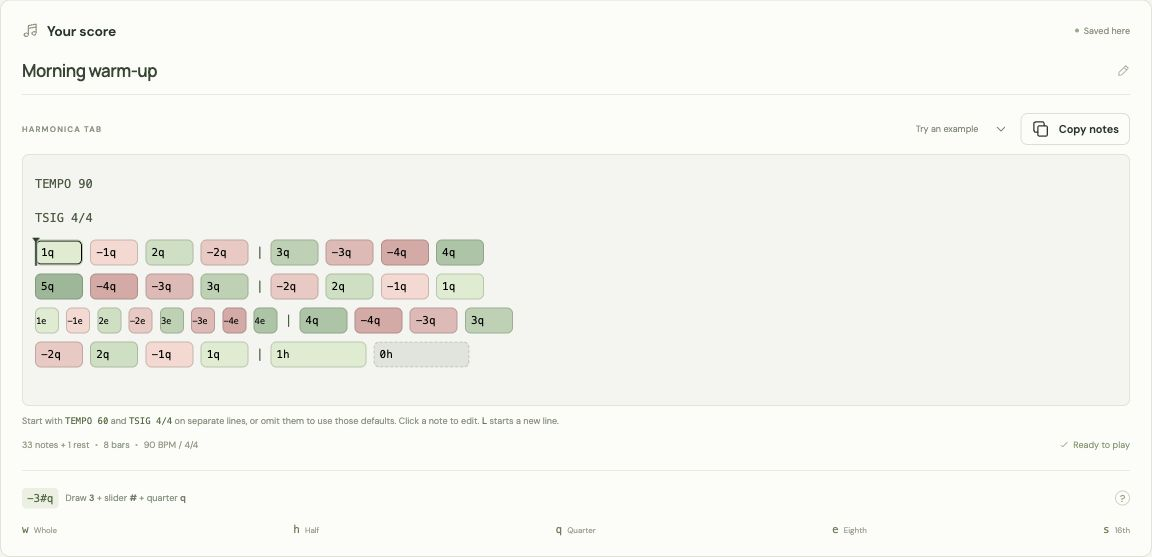
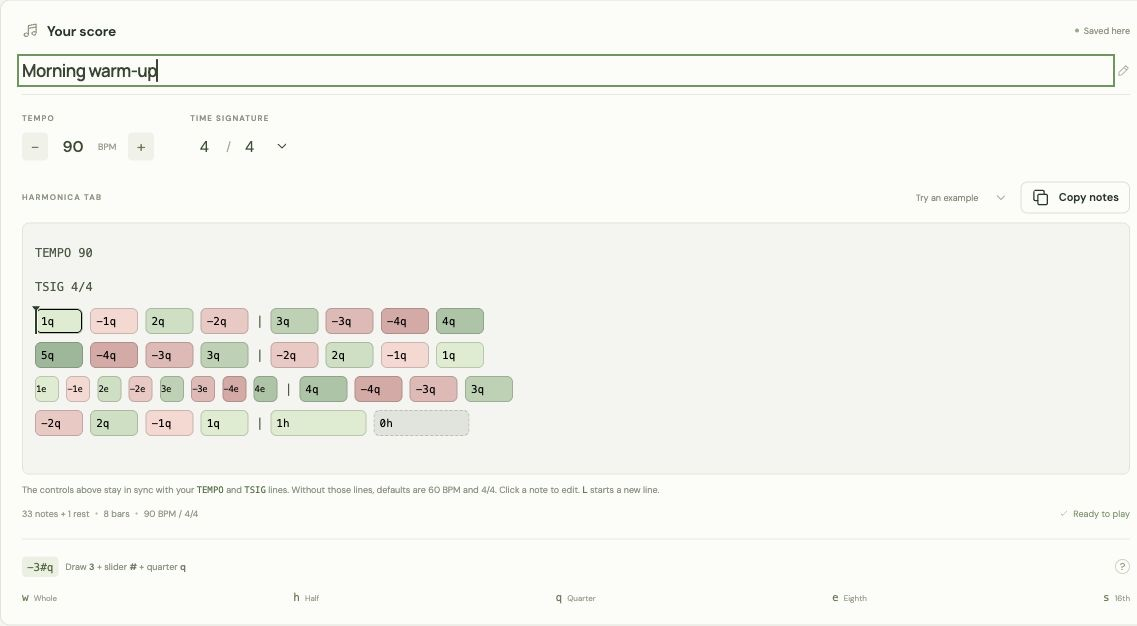
Add synced tempo and time signature controls to the score (#3)
Add score-panel timing controls with two-way TEMPO/TSIG sync, preserve notation formatting and undo history, and refresh the documentation screenshot.

Verified with 114 passing tests, the static build, and desktop/mobile browser checks.

diff --git a/notation.test.js b/notation.test.js
@@ -1,6 +1,6 @@
 import test from 'node:test';
 import assert from 'node:assert/strict';
-import { parseNotation, pitchFor, formatDuration } from './notation.js';
+import { parseNotation, pitchFor, formatDuration, updateScoreTiming } from './notation.js';
 
 const emptyScore = { notes: [], errors: [], totalBeats: 0, tempo: 60, numerator: 4, denominator: 4, directives: [] };
 
@@ -216,4 +216,67 @@ test('pitch inputs and duration formatting handle boundary values', () => {
   assert.equal(formatDuration(3601), '60:01');
   assert.equal(formatDuration(-10), '0:00');
   assert.equal(formatDuration(Infinity), '0:00');
+});
+
+test('timing controls preserve TEMP spelling, formatting, CRLF and every body character', () => {
+  const body = '\r\n 1qL - 3 # h.\t| 0e \r\n-2';
+  const source = ` \ttEmP\t 090  \r\n tSiG  6 / 8\t\r\n${body}`;
+  const updated = updateScoreTiming(source, { tempo: 120, numerator: 3 });
+  assert.equal(updated, ` \ttEmP\t 120  \r\n tSiG  3 / 8\t\r\n${body}`);
+  assert.equal(updateScoreTiming(updated, { tempo: 120, numerator: 3 }), updated);
+  assert.equal(updateScoreTiming(source, { tempo: 90, numerator: 6, denominator: 8 }), source);
+});
+
+test('missing timing controls insert only requested headers in tempo then signature order', () => {
+  const body = '\n 1q L-3#q\n\n0h ';
+  assert.equal(updateScoreTiming(body, { tempo: 60 }), `TEMPO 60\n${body}`);
+  assert.equal(updateScoreTiming(body, { numerator: 6 }), `TSIG 6/4\n${body}`);
+  assert.equal(updateScoreTiming(body, { denominator: 8 }), `TSIG 4/8\n${body}`);
+  assert.equal(updateScoreTiming(body, { tempo: 90, numerator: 6, denominator: 8 }), `TEMPO 90\nTSIG 6/8\n${body}`);
+  assert.equal(updateScoreTiming(`TSIG 6/8\n${body}`, { tempo: 90 }), `TEMPO 90\nTSIG 6/8\n${body}`);
+  assert.equal(updateScoreTiming(`TEMP 70\r\n${body}`, { denominator: 8 }), `TEMP 70\r\nTSIG 4/8\r\n${body}`);
+  assert.equal(updateScoreTiming('TEMP 70', { numerator: 3 }), 'TEMP 70\nTSIG 3/4\n');
+  assert.equal(updateScoreTiming('', { tempo: 90, numerator: 6, denominator: 8 }), 'TEMPO 90\nTSIG 6/8\n');
+});
+
+test('controls repair simple malformed headers without normalizing other invalid settings', () => {
+  const source = '  TEMP\twrong  \nTSIG 6/3\n1q -3#';
+  const changed = updateScoreTiming(source, { tempo: 80 });
+  assert.equal(changed, '  TEMP\t80  \nTSIG 6/3\n1q -3#');
+  assert.equal(updateScoreTiming(changed, { numerator: 5 }), '  TEMP\t80  \nTSIG 5/3\n1q -3#');
+  assert.equal(updateScoreTiming(changed, { denominator: 8 }), '  TEMP\t80  \nTSIG 6/8\n1q -3#');
+  assert.equal(updateScoreTiming('TEMPO60\nTSIG wrong\n1q', { numerator: 3 }), 'TEMPO60\nTSIG 3/4\n1q');
+  assert.equal(updateScoreTiming('TEMPO60\n1q', { tempo: 90 }), 'TEMPO 90\n1q');
+});
+
+test('duplicate and misplaced headers remain visible instead of being silently removed', () => {
+  const duplicate = 'TEMPO 60\nTEMP 80\nTSIG 3/4\n1q';
+  const updated = updateScoreTiming(duplicate, { tempo: 90 });
+  assert.equal(updated, 'TEMPO 90\nTEMP 80\nTSIG 3/4\n1q');
+  assert.ok(parseNotation(updated).errors.some(error => error.message.includes('only one')));
+  const misplaced = '1q\nTEMPO 80\n-3#h';
+  const fixedTop = updateScoreTiming(misplaced, { tempo: 90 });
+  assert.equal(fixedTop, `TEMPO 90\n${misplaced}`);
+  assert.ok(parseNotation(fixedTop).errors.some(error => error.message.includes('before the notes')));
+  assert.equal(updateScoreTiming('1q TEMPO 60\n2q', { tempo: 90 }), 'TEMPO 90\n1q TEMPO 60\n2q');
+});
+
+test('ambiguous header repairs never discard music or another header on the same line', () => {
+  for (const source of ['TEMPO 90 1q\n2h', 'TEMP 1 q L\n2h', 'TEMPO 60 TSIG 4/4\n1q',
+    'TEMPO 90 -3#\n2q', 'TEMPO 90 -\n2q', 'TEMP 90 1\n2q', 'TEMPO 90 | 1\n2q']) {
+    assert.throws(() => updateScoreTiming(source, { tempo: 90 }), /Edit the TEMPO line directly/);
+  }
+  assert.throws(() => updateScoreTiming('TSIG 4/4 -3#q\n1q', { denominator: 8 }), /Edit the TSIG line directly/);
+  assert.throws(() => updateScoreTiming('TSIG 4/4 | 1\n2q', { numerator: 3 }), /Edit the TSIG line directly/);
+});
+
+test('timing patches reject invalid values and leave empty patches unchanged', () => {
+  const source = 'TEMPO 60\n1q';
+  assert.equal(updateScoreTiming(source, {}), source);
+  for (const patch of [null, [], '90', { bpm: 90 }, { tempo: '90' }, { tempo: 29 }, { tempo: 301 },
+    { tempo: 90.5 }, { numerator: 0 }, { numerator: 33 }, { denominator: 3 }, { denominator: null },
+    { tempo: 90, numerator: NaN }]) {
+    assert.throws(() => updateScoreTiming(source, patch), { name: /TypeError|RangeError/ }, JSON.stringify(patch));
+  }
+  assert.throws(() => updateScoreTiming(null, { tempo: 90 }), TypeError);
 });

diff --git a/styles.css b/styles.css
@@ -12,6 +12,17 @@ main{max-width:1440px;margin:auto;padding:39px max(5vw,24px) 0}.page-heading{dis
 @media(max-width:850px){.workspace{grid-template-columns:minmax(0,1fr)}.composer-column{display:grid;grid-template-columns:minmax(0,1fr);gap:17px;align-items:start}.backing-card{margin-top:0}.privacy-note{grid-column:1/-1;margin:0}.page-heading{margin-bottom:24px}h1{font-size:31px}.score-card{padding:19px}.duration-reference{font-size:8px}.transport-settings{justify-content:flex-start;gap:32px}.metronome-button{margin-left:auto}.practice-tip{margin-bottom:6px}footer{margin-top:22px}}
 @media(max-width:580px){.site-header{height:70px;padding:0 19px}.brand{font-size:24px}.brand img{width:31px;height:31px}.header-right{gap:0}.local-badge{display:none}.text-button{font-size:10px;gap:6px}.text-button svg{width:15px;height:15px}main{padding:27px 16px 0}.page-heading{flex-wrap:wrap;gap:17px;margin-bottom:20px}.eyebrow{font-size:8px;letter-spacing:1.2px}h1{font-size:30px;margin-top:8px}.page-heading p{font-size:11px}.file-actions{padding:0;gap:8px}.button{height:34px;font-size:10px;padding:0 12px}.composer-column{display:flex;flex-direction:column;gap:0}.composer-column .card{width:100%}.backing-card{margin-top:16px}.privacy-note{margin-top:14px}.visualizer-top{padding:17px 14px 14px}.visualizer-title{font-size:8px;letter-spacing:1px}.instrument-badge{font-size:9px}.instrument-badge>span{margin:0 4px}.visualizer-legend{padding-left:14px;padding-bottom:10px;font-size:9px}.canvas-wrap{margin-right:5px;margin-left:0}.harmonica{padding-right:5px;padding-left:20px;gap:3px;padding-bottom:14px}.hole{height:48px;border-radius:4px}.hole strong{font-size:13px}.hole small{font-size:7px}.current-note-bar{padding:13px 14px}.current-note strong{font-size:11px}.current-note div>span{font-size:9px}.current-direction{width:30px;height:30px}.measure-indicator{font-size:9px}.transport-card{margin-top:12px;padding:14px}.transport-buttons{gap:5px}.play-button{min-width:82px;height:36px}.icon-button{padding:6px}.time-display{font-size:10px;gap:4px}.transport-settings{gap:22px;flex-wrap:wrap;padding-top:14px;margin-top:17px}.metronome-button{font-size:9px;gap:4px}.metronome-button>span[data-icon]{display:none}.metronome-button .toggle-track{margin-left:0}.setting>label{font-size:7px}.tempo-stepper{gap:4px}.tempo-stepper span{font-size:8px;margin-right:3px}.tempo-stepper button{width:22px}.signature-setting{margin-right:0}.practice-tip{font-size:9px;margin-top:14px}.workspace{gap:20px}.score-name-row input{font-size:18px}.duration-reference{font-size:9px}.duration-reference b{font-size:12px}.notation-hint{font-size:10px}.backing-card{padding:20px}.upload-zone{padding:20px}.upload-zone strong{font-size:12px}.upload-zone>span:not(.upload-circle){font-size:10px}.offset-row label{font-size:11px}.offset-help{font-size:10px}.volume-row label{font-size:11px}.privacy-note{font-size:9px}footer{align-items:start;gap:10px;font-size:8px}footer>span:last-child{max-width:180px;text-align:right;line-height:1.7}dialog{padding:22px}.guide-grid{grid-template-columns:80px 1fr;font-size:10px;gap:11px}}
 .score-card { min-width: 0; }
+.score-settings { display: flex; align-items: center; flex-wrap: wrap; gap: 24px 36px; margin-bottom: 21px; }
+.tempo-stepper { display: flex; align-items: center; gap: 6px; }
+.tempo-stepper button { background: #f0f2e9; width: 26px; height: 28px; border-radius: 4px; color: #677a5c; font-size: 16px; }
+.tempo-stepper button:hover { background: #e6eddd; }
+.tempo-stepper input { width: 38px; border: 0; background: none; font-size: 16px; text-align: center; font-weight: 550; color: #394b32; padding: 0; appearance: textfield; }
+.tempo-stepper input::-webkit-inner-spin-button, .time-signature input::-webkit-inner-spin-button { appearance: none; }
+.tempo-stepper span { font-size: 9px; color: #949d8c; margin-right: 6px; }
+.time-signature { display: flex; align-items: center; gap: 8px; height: 28px; }
+.time-signature input { width: 28px; appearance: textfield; text-align: center; border: 0; background: none; color: #394b32; padding: 0; font-size: 15px; }
+.time-signature > span { color: #a4ad9a; font-size: 12px; }
+.time-signature select { padding: 0 14px 0 2px; font-size: 15px; border: 0; color: #394b32; background-color: transparent; }
 .editor-toolbar { flex-wrap: wrap; }
 .editor-actions { display: flex; align-items: center; justify-content: flex-end; flex-wrap: wrap; gap: 12px; margin-left: auto; }
 .copy-notes { height: 32px; padding: 0 10px; font-size: 11px; white-space: nowrap; }

diff --git a/notation.js b/notation.js
@@ -59,6 +59,77 @@ function parseHeaders(source) {
   return result;
 }
 
+/** Change score controls without rewriting note text or unrelated headers. */
+export function updateScoreTiming(source, patch) {
+  if (typeof source !== 'string') throw new TypeError('Notation must be text.');
+  if (!patch || typeof patch !== 'object' || Array.isArray(patch)) throw new TypeError('Timing changes must be an object.');
+  for (const [key, value] of Object.entries(patch)) {
+    if (!['tempo', 'numerator', 'denominator'].includes(key)) throw new TypeError(`Unknown timing setting: ${key}.`);
+    const valid = Number.isInteger(value) && (key === 'tempo' ? value >= 30 && value <= 300
+      : key === 'numerator' ? value >= 1 && value <= 32 : [2, 4, 8, 16].includes(value));
+    if (!valid) throw new RangeError(key === 'tempo' ? 'Tempo must be a whole number from 30 to 300.'
+      : key === 'numerator' ? 'Time signature numerator must be a whole number from 1 to 32.'
+        : 'Time signature denominator must be 2, 4, 8, or 16.');
+  }
+  const has = key => Object.hasOwn(patch, key);
+  let updated = source;
+  const newline = source.match(/\r\n|\r|\n/)?.[0] || '\n';
+  const requested = [];
+  if (has('tempo')) requested.push('tempo');
+  if (has('numerator') || has('denominator')) requested.push('time-signature');
+
+  for (const kind of requested) {
+    const parsed = parseHeaders(updated);
+    const eligible = [];
+    let cursor = 0;
+    for (const directive of parsed.directives) {
+      // Anything other than whitespace between header lines starts the body.
+      if (updated.slice(cursor, directive.start).trim()) break;
+      eligible.push(directive);
+      cursor = directive.end;
+    }
+    const target = eligible.find(directive => directive.kind === kind);
+    const keyword = kind === 'tempo' ? 'TEMPO' : 'TSIG';
+    const numerator = has('numerator') ? patch.numerator : parsed.numerator;
+    const denominator = has('denominator') ? patch.denominator : parsed.denominator;
+    const value = kind === 'tempo' ? String(patch.tempo) : `${numerator}/${denominator}`;
+    if (target) {
+      const text = updated.slice(target.start, target.end);
+      const signature = /^(TSIG)(\s+)(\d+)(\s*\/\s*)(\d+)(\s*)$/i.exec(text);
+      let replacement;
+      if (kind === 'time-signature' && signature) {
+        const top = has('numerator') && Number(signature[3]) !== patch.numerator ? String(patch.numerator) : signature[3];
+        const bottom = has('denominator') && Number(signature[5]) !== patch.denominator ? String(patch.denominator) : signature[5];
+        replacement = `${signature[1]}${signature[2]}${top}${signature[4]}${bottom}${signature[6]}`;
+      } else {
+        const parts = /^(TEMPO|TEMP|TSIG)(\s*)(.*?)(\s*)$/i.exec(text);
+        const oldValue = parts[3];
+        // A malformed header may also contain music. Ask for a direct edit
+        // instead of deleting that text while repairing the header value.
+        if (/[-+]?\s*\d+(?:\s+\d+)*\s*#?\s*[whqes]\.?(?![a-z])/i.test(oldValue)
+          || /[#|]|\d\s+\d/.test(oldValue) || /[+-]/.test(oldValue) && !/^[+-]?\d+(?:\.\d+)?$/.test(oldValue)
+          || /L/.test(oldValue) || /\b(?:TEMPO|TEMP|TSIG)(?![a-z])/i.test(oldValue)) {
+          throw new Error(`Edit the ${keyword} line directly: it also contains note text or another header.`);
+        }
+        const sameTempo = kind === 'tempo' && /^\d+$/.test(oldValue) && Number(oldValue) === patch.tempo;
+        replacement = sameTempo ? text : `${parts[1]}${parts[2] || ' '}${value}${parts[4]}`;
+      }
+      updated = updated.slice(0, target.start) + replacement + updated.slice(target.end);
+      continue;
+    }
+
+    const tempoHeader = kind === 'time-signature' && eligible.find(directive => directive.kind === 'tempo');
+    if (tempoHeader) {
+      const followingNewline = /^(?:\r\n|\r|\n)/.exec(updated.slice(tempoHeader.end))?.[0];
+      const insertAt = tempoHeader.end + (followingNewline?.length || 0);
+      updated = `${updated.slice(0, insertAt)}${followingNewline ? '' : newline}${keyword} ${value}${newline}${updated.slice(insertAt)}`;
+    } else {
+      updated = `${keyword} ${value}${newline}${updated}`;
+    }
+  }
+  return updated;
+}
+
 /** Return sounding pitch in scientific pitch notation. A zero hole is a rest. */
 export function pitchFor(hole, draw = false, slider = false) {
   if (hole === 0) return { midi: null, pitch: null };

diff --git a/index.html b/index.html
@@ -43,12 +43,16 @@
         <section class="card score-card">
           <div class="card-heading"><h2><span data-icon="notes"></span> Your score</h2><span class="saved-status" id="saved-status"><span class="status-dot"></span> Saved here</span></div>
           <div class="score-name-row"><input id="score-title" value="Morning warm-up" maxlength="100" aria-label="Score title"><span data-icon="pencil"></span></div>
+          <div class="score-settings" role="group" aria-label="Score timing">
+            <div class="setting"><label for="tempo">TEMPO</label><div class="tempo-stepper"><button id="tempo-down" type="button" aria-label="Decrease tempo">-</button><input id="tempo" type="number" min="30" max="300" step="1" value="60" aria-label="Tempo in quarter notes per minute"><span>BPM</span><button id="tempo-up" type="button" aria-label="Increase tempo">+</button></div></div>
+            <div class="setting signature-setting"><label for="time-numerator">TIME SIGNATURE</label><div class="time-signature"><input id="time-numerator" type="number" min="1" max="32" step="1" value="4" aria-label="Time signature numerator"><span>/</span><select id="time-denominator" aria-label="Time signature denominator"><option>2</option><option selected>4</option><option>8</option><option>16</option></select></div></div>
+          </div>
           <div class="editor-toolbar"><span>HARMONICA TAB</span><div class="editor-actions"><select id="examples" aria-label="Load an example score"><option value="" selected>Try an example</option><option value="warmup">Morning warm-up</option><option value="chromatic">Chromatic steps</option><option value="waltz">A little 6/8</option><option value="blank">Blank score</option></select><button class="button secondary copy-notes" id="copy-notes" type="button"><span data-icon="copy"></span> Copy notes</button></div></div>
           <div class="editor-shell" id="note-editor">
             <div id="notation" contenteditable="true" role="textbox" aria-multiline="true" spellcheck="false" autocapitalize="off" autocomplete="off" autocorrect="off" aria-label="Harmonica notation" aria-describedby="editor-help notation-hint score-errors" data-placeholder="TEMPO 60&#10;TSIG 4/4&#10;Write a note, like -3#q..."></div>
             <div class="editor-playhead" aria-hidden="true" hidden></div>
           </div>
-          <p class="editor-help" id="editor-help">Start with <code>TEMPO 60</code> and <code>TSIG 4/4</code> on separate lines, or omit them to use those defaults. Click a note to edit. <code>L</code> starts a new line.</p>
+          <p class="editor-help" id="editor-help">The controls above stay in sync with your <code>TEMPO</code> and <code>TSIG</code> lines. Without those lines, defaults are 60 BPM and 4/4. Click a note to edit. <code>L</code> starts a new line.</p>
           <div class="score-stats"><span id="note-count">0 notes</span><span class="small-dot"></span><span id="bar-count">0 bars</span><span class="small-dot"></span><span id="score-timing">60 BPM / 4/4</span><span class="score-valid" id="score-valid"><span data-icon="check"></span> Ready to play</span></div>
           <div id="score-errors" class="score-errors" role="status" hidden></div>
           <div class="notation-hint" id="notation-hint"><code>-3#q</code><span>Draw <b>3</b> + slider <b>#</b> + quarter <b>q</b></span><button class="hint-help" id="hint-help" aria-label="Open notation guide">?</button></div>

diff --git a/app.js b/app.js
@@ -1,4 +1,4 @@
-import { parseNotation, pitchFor, formatDuration } from './notation.js';
+import { parseNotation, pitchFor, formatDuration, updateScoreTiming } from './notation.js';
 import { PracticeAudio } from './audio.js';
 import { HarmonicaVisualizer } from './visualizer.js';
 import { NoteEditor } from './note-editor.js';
@@ -169,6 +169,7 @@ function refreshScore() {
   project.tempo = parsed.tempo;
   project.numerator = parsed.numerator;
   project.denominator = parsed.denominator;
+  syncTimingControls();
   audio.setTimeSignature(project.numerator, project.denominator);
   $('score-timing').textContent = `${project.tempo} BPM / ${project.numerator}/${project.denominator}`;
   $('copy-notes').disabled = project.notation.length === 0;
@@ -319,6 +320,46 @@ $('seek').addEventListener('pointerdown', () => { resumeAfterScrub = audio.isPla
 $('seek').addEventListener('input', () => { if (audio.isPlaying) pausePlayback(); position = Number($('seek').value); renderPosition(); updateTransport(); });
 $('seek').addEventListener('change', () => { if (resumeAfterScrub && position < parsed.totalBeats) void startPlayback(); resumeAfterScrub = false; });
 $('score-title').addEventListener('input', () => { project.title = $('score-title').value; save(); });
+
+function syncTimingControls() {
+  for (const [id, value] of [['tempo', project.tempo], ['time-numerator', project.numerator], ['time-denominator', project.denominator]]) {
+    if ($(id).value !== String(value)) $(id).value = value;
+  }
+  $('tempo-down').disabled = project.tempo <= 30;
+  $('tempo-up').disabled = project.tempo >= 300;
+}
+function editScoreTiming(patch) {
+  try {
+    const source = noteEditor.getValue();
+    const updated = updateScoreTiming(source, patch);
+    if (updated !== source) {
+      // Apply only the changed range so timing edits share the score's undo history.
+      let start = 0, end = source.length, updatedEnd = updated.length;
+      while (start < end && start < updatedEnd && source[start] === updated[start]) start++;
+      while (end > start && updatedEnd > start && source[end - 1] === updated[updatedEnd - 1]) { end--; updatedEnd--; }
+      noteEditor.applyEdit(start, end, updated.slice(start, updatedEnd), { finish: true });
+    }
+  } catch (error) {
+    notify(error.message || 'Check the timing lines in your score.', true);
+  }
+  syncTimingControls();
+}
+for (const [id, key] of [['tempo', 'tempo'], ['time-numerator', 'numerator']]) {
+  const input = $(id);
+  input.addEventListener('input', () => {
+    if (input.value !== '' && input.validity.valid) editScoreTiming({ [key]: Number(input.value) });
+  });
+  input.addEventListener('change', () => {
+    if (input.value !== '') {
+      const value = Math.min(Number(input.max), Math.max(Number(input.min), Math.round(Number(input.value))));
+      editScoreTiming({ [key]: value });
+    } else syncTimingControls();
+  });
+  input.addEventListener('blur', syncTimingControls);
+}
+$('tempo-down').addEventListener('click', () => editScoreTiming({ tempo: Math.max(30, project.tempo - 5) }));
+$('tempo-up').addEventListener('click', () => editScoreTiming({ tempo: Math.min(300, project.tempo + 5) }));
+$('time-denominator').addEventListener('change', () => editScoreTiming({ denominator: Number($('time-denominator').value) }));
 
 async function changeTiming(update) {
   const wasPlaying = audio.isPlaying || pendingPlay;

diff --git a/README.md b/README.md
@@ -13,7 +13,7 @@ Follow the falling notes or play the harmonica directly with your mouse and keyb
 - A simple notation language for holes, blow/draw, the slider, note lengths, and rests.
 - An inline score editor with duration-sized note boxes, breath colors, and a moving playhead.
 - A falling-note visualizer across all 12 holes, with adjustable height and labels for short notes.
-- Tempo and time signature written directly in the score, a metronome, looping, seeking, and note-by-note navigation.
+- Tempo and time signature controls in the score panel, synced with text headers, plus a metronome, looping, seeking, and note-by-note navigation.
 - Three sounds: synthesized reed, FluidR3 harmonica, and recorded VCSL chromatic harmonica.
 - A playable harmonica with mouse, touch, and keyboard controls.
 - Local backing tracks with separate volume and positive or negative start offsets.
@@ -28,10 +28,10 @@ Open the [live app](https://alirezaroshanzamir.github.io/chromaplay/), try the i
 
 1. Choose **Blank score** from the example menu, or edit the existing notes.
 2. Enter notation such as `1q -1q 2q -2q | 3h 0h`.
-3. Add `TEMPO 90` and `TSIG 4/4` on their own lines at the top to set the tempo and meter. Without headers, the score uses 60 BPM and 4/4.
+3. Set the tempo and time signature with the score panel controls, or write `TEMPO 90` and `TSIG 4/4` on their own lines at the top. The controls and headers stay in sync. Without headers, the score uses 60 BPM and 4/4.
 4. Choose a sound, press **Play**, and follow the notes. Add a backing track if you want to play along.
 
-Editing notation pauses playback and returns to the beginning. Invalid notation is highlighted and must be fixed before playback or export.
+Editing notation or changing the score's timing controls pauses playback and returns to the beginning. Invalid notation is highlighted and must be fixed before playback or export.
 
 ### Run locally
 
@@ -55,7 +55,7 @@ TSIG 4/4
 1q -1q 2q -2q | 3h 0h
 ```
 
-Keep each header on its own line before the notes. Either header may be omitted; defaults are `TEMPO 60` and `TSIG 4/4`. `TEMP` is also accepted as an alias for `TEMPO`. These settings stay in copied and exported notation.
+Keep each header on its own line before the notes. Either header may be omitted; defaults are `TEMPO 60` and `TSIG 4/4`. `TEMP` is also accepted as an alias for `TEMPO`. The score panel's tempo and time signature controls update these headers, and editing a header updates its control. These settings stay in copied and exported notation.
 
 Each note has this form:
 
@@ -161,7 +161,9 @@ The selected sound autosaves and is included in exported projects. Sample loadin
 
 ## Tempo and playback
 
-Write `TEMPO number` and `TSIG numerator/denominator` at the top of the score, before any notes. The headers can appear in either order, with one setting per line. Duplicate settings and headers placed after notes are reported as errors. `TEMP` is accepted as a shorter spelling of `TEMPO`.
+Use the tempo minus/plus buttons or BPM field and the time signature controls in the score panel. You can also write `TEMPO number` and `TSIG numerator/denominator` at the top of the score, before any notes. Changing a control updates its header; editing a header updates the controls.
+
+The headers can appear in either order, with one setting per line. Duplicate settings and headers placed after notes are reported as errors. `TEMP` is accepted as a shorter spelling of `TEMPO`.
 
 ```text
 TEMPO 70
@@ -173,7 +175,7 @@ Tempo defaults to **60 BPM**, accepts whole numbers from **30-300**, and always 
 
 The time signature defaults to **4/4**. It accepts a numerator of **1-32** and a denominator of **2, 4, 8, or 16**. It controls visual bar lines and metronome pulses and accents without changing written note lengths. A `6/8` bar contains three quarter-note beats and six eighth-note metronome pulses.
 
-Tempo and meter are part of the score rather than separate playback controls. Removing a header restores that setting's default. Older saved projects keep their timing: ChromaPlay adds their existing tempo and time signature as score headers when first opening them.
+Tempo and meter are part of the score. Changing either with its control or header pauses playback and returns to the beginning. Removing a header restores that setting's default in the controls. Older saved projects keep their timing: ChromaPlay adds their existing tempo and time signature as score headers when first opening them.
 
 Use **Previous** and **Next** to move through notes and rests, **Restart** to return to the beginning, or the progress bar to seek. **Pause** stops both notes and backing audio. **Loop** repeats the score. Both audio parts stop at the end of the score.
 
